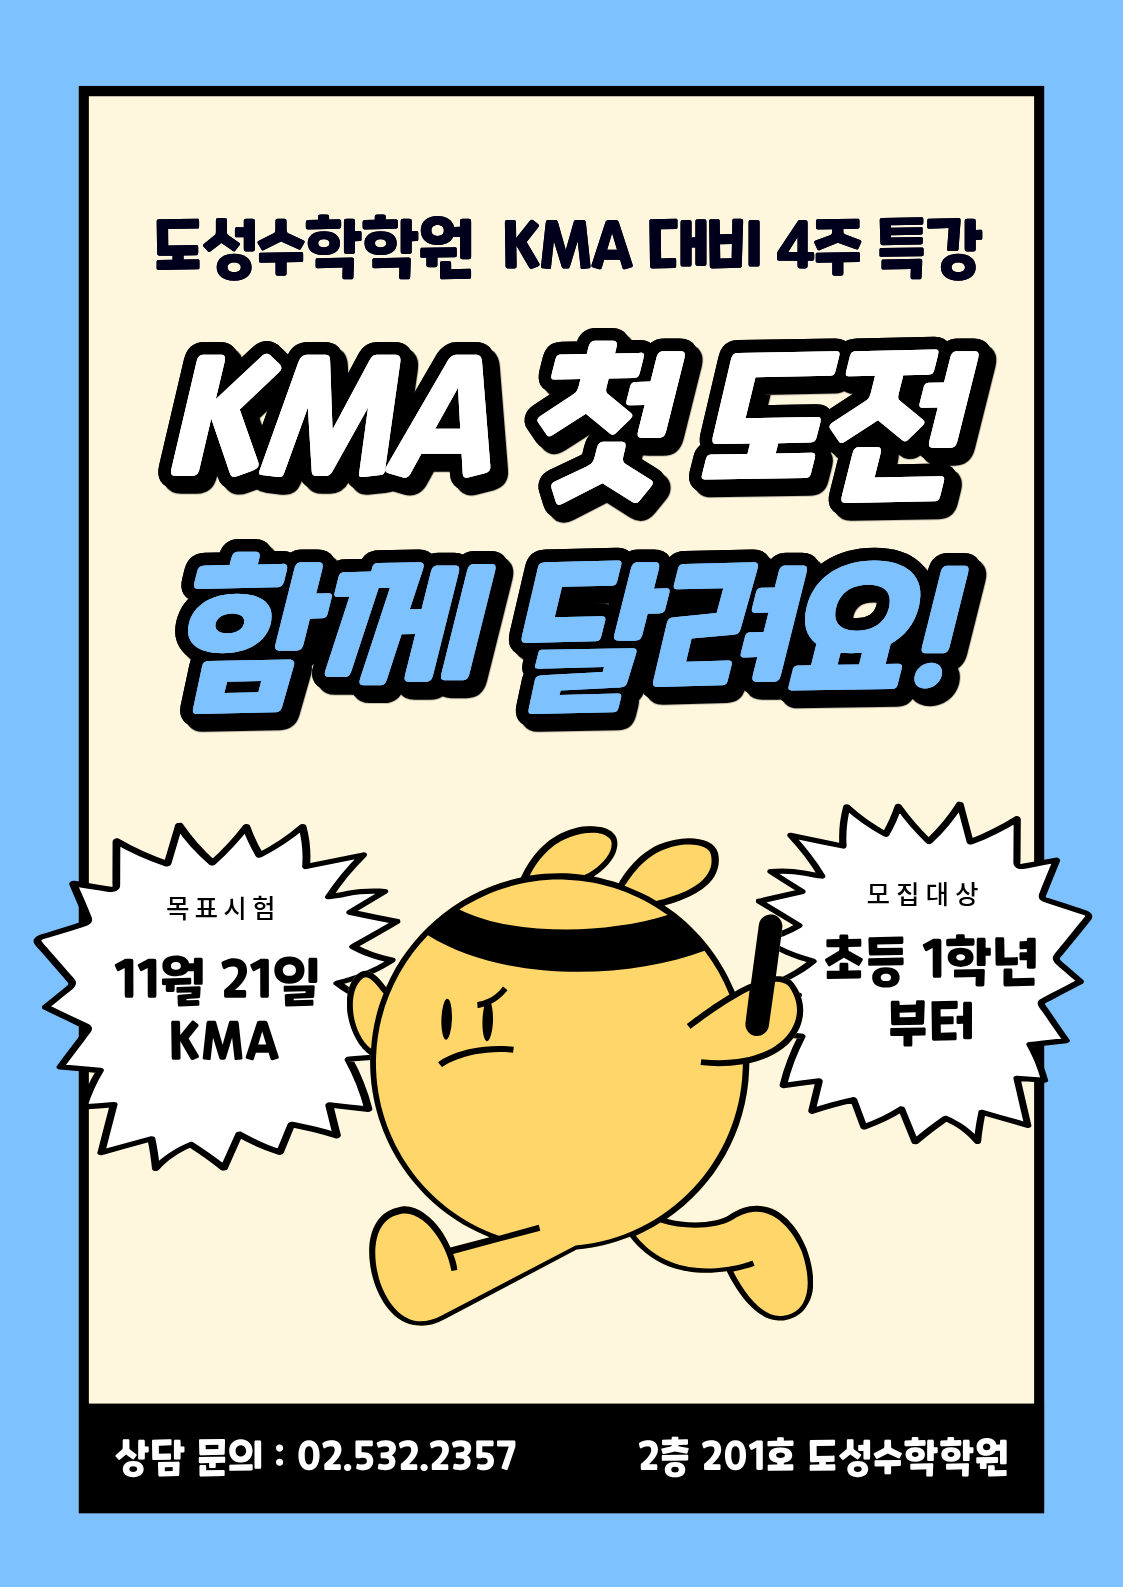
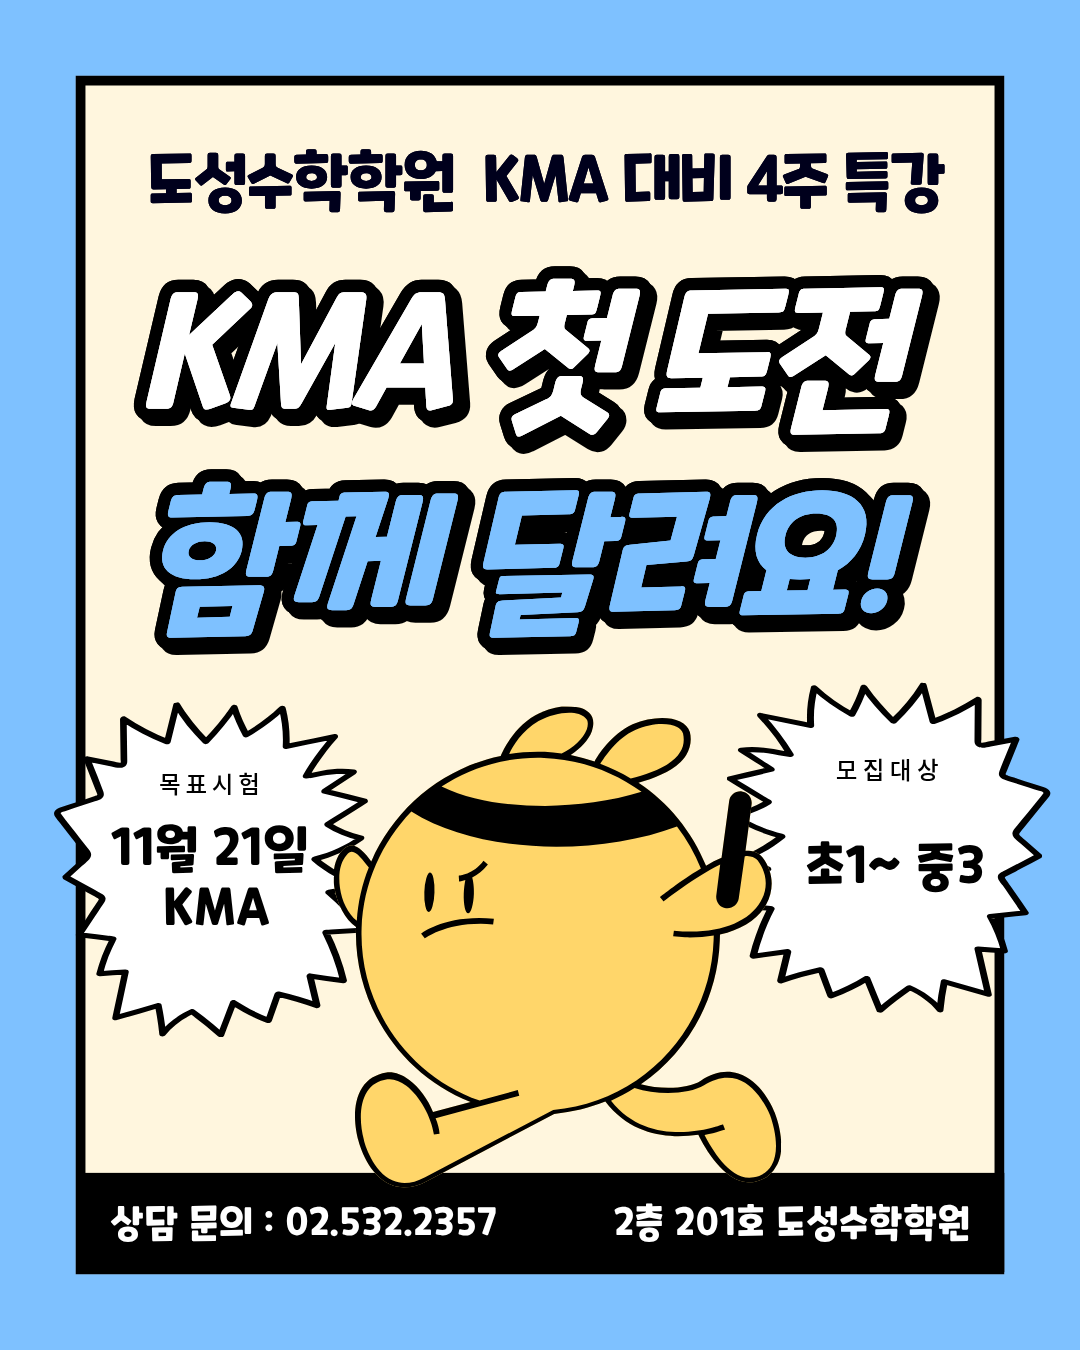
feat(popup): KMA 특강 포스터 교체 + 팝업 순서 표시(1/2, 2/2)
- 앞 팝업 포스터를 새 KMA 첫 도전 이미지(1080x1350, 4:5)로 교체, 카드 비율 0.8 적용
- 팝업 왼쪽 위에 순서 배지 추가(앞부터 1/N, 숨김 팝업은 개수에서 제외)
- 포스터 크기가 달라 뒤 팝업이 비치지 않도록 맨 앞 팝업만 표시
- KMA 포스터 대체 텍스트 갱신(목표시험 11월 21일, 모집대상 초1~중3)

Changed region(s): [[0.0306, 0.0933, 0.9778, 0.9644], [0.0917, 0.0311, 0.9167, 0.0622]]

diff --git a/styles.css b/styles.css
@@ -548,7 +548,16 @@ em { font-style: normal; }
 }
 /* 두 팝업을 정확히 같은 자리에 포갠다 (앞이 뒤를 덮음) */
 .promo-card-back  { z-index: 1; transform: translate(-50%, -50%); }
-.promo-card-front { z-index: 2; transform: translate(-50%, -50%); }
+.promo-card-front { z-index: 2; transform: translate(-50%, -50%); --promo-ratio: 0.8; } /* KMA 포스터 1080 / 1350 */
+/* 팝업 순서 표시 (1/2, 2/2) */
+.promo-count {
+  position: absolute; top: 12px; left: 12px; z-index: 5;
+  height: 30px; padding: 0 12px; border-radius: 999px;
+  display: inline-flex; align-items: center;
+  background: rgba(20, 6, 8, 0.55); border: 1px solid rgba(255, 255, 255, 0.3);
+  color: #fff; font-size: 13px; font-weight: 700; letter-spacing: 0.04em; font-variant-numeric: tabular-nums;
+}
+.promo-count:empty { display: none; }
 .promo-close {
   position: absolute; top: 12px; right: 12px; z-index: 5;
   width: 38px; height: 38px; border-radius: 50%;
@@ -560,7 +569,7 @@ em { font-style: normal; }
 .promo-close svg { width: 18px; height: 18px; }
 .promo-poster {
   display: block; width: 100%; flex: none; padding: 0; border: 0;
-  aspect-ratio: 1123 / 1587;        /* 포스터 원본 비율 고정 → 카드 너비만으로 높이가 정해짐 */
+  aspect-ratio: var(--promo-ratio);  /* 포스터 원본 비율 고정 → 카드 너비만으로 높이가 정해짐 */
   background: none; cursor: pointer; overflow: hidden;
 }
 .promo-poster img { display: block; width: 100%; height: 100%; object-fit: contain; }
@@ -579,6 +588,7 @@ em { font-style: normal; }
   .promo-card { --promo-max-w: 620px; --promo-bar-h: 56px; --promo-gap: 48px; }
   .promo-bar button { font-size: 15px; }
   .promo-close { top: 14px; right: 14px; width: 42px; height: 42px; }
+  .promo-count { top: 14px; left: 14px; height: 34px; font-size: 14px; padding: 0 14px; }
   .promo-close svg { width: 20px; height: 20px; }
 }
 /* 대형 데스크톱 */

diff --git a/index.html b/index.html
@@ -503,6 +503,7 @@
 
   <!-- 뒤쪽 팝업 : 수리논술 특강 -->
   <div class="promo-card promo-card-back" data-popup-id="math" role="dialog" aria-modal="true" aria-label="대입 수리논술 특강 안내">
+    <span class="promo-count" data-popup-count aria-hidden="true"></span>
     <button type="button" class="promo-close" aria-label="닫기" data-popup-close>
       <svg viewBox="0 0 24 24" fill="none" stroke="currentColor" stroke-width="2" stroke-linecap="round" stroke-linejoin="round"><line x1="18" y1="6" x2="6" y2="18"/><line x1="6" y1="6" x2="18" y2="18"/></svg>
     </button>
@@ -517,11 +518,12 @@
 
   <!-- 앞쪽 팝업 : KMA 특강 -->
   <div class="promo-card promo-card-front" data-popup-id="kma" role="dialog" aria-modal="true" aria-label="KMA 대비 4주 특강 안내">
+    <span class="promo-count" data-popup-count aria-hidden="true"></span>
     <button type="button" class="promo-close" aria-label="닫기" data-popup-close>
       <svg viewBox="0 0 24 24" fill="none" stroke="currentColor" stroke-width="2" stroke-linecap="round" stroke-linejoin="round"><line x1="18" y1="6" x2="6" y2="18"/><line x1="6" y1="6" x2="18" y2="18"/></svg>
     </button>
     <button type="button" class="promo-poster" data-popup-reserve aria-label="KMA 대비 4주 특강 — 상담 예약하기">
-      <img src="images/kma_poster.png" alt="도성수학학원 KMA 대비 4주 특강 안내 — 11월 21일 KMA, 초등 1학년부터" />
+      <img src="images/kma_poster.png" alt="도성수학학원 KMA 대비 4주 특강 안내 — KMA 첫 도전 함께 달려요! 목표시험 11월 21일 KMA, 모집대상 초1~중3" />
     </button>
     <div class="promo-bar">
       <button type="button" class="promo-hide" data-popup-hide>오늘 하루 보지 않기</button>

diff --git a/script.js b/script.js
@@ -512,6 +512,19 @@ if (window.Swiper && document.querySelector('.class-swiper')) {
   };
 
   const visibleCards = () => cards.filter((c) => c.style.display !== 'none');
+  // 포스터 크기가 서로 달라도 뒤 팝업이 비치지 않도록 맨 앞 팝업만 보이게 한다
+  const syncStack = () => {
+    const vis = visibleCards();
+    vis.forEach((c, i) => { c.style.visibility = i === vis.length - 1 ? '' : 'hidden'; });
+  };
+  // 팝업 순서 표시: 앞 팝업부터 1/N, 2/N … (숨김 처리된 팝업은 개수에서 제외)
+  const labelCards = () => {
+    const vis = visibleCards().slice().reverse(); // DOM 순서는 뒤→앞이므로 뒤집어 앞 팝업이 1번
+    vis.forEach((card, i) => {
+      const el = card.querySelector('[data-popup-count]');
+      if (el) el.textContent = `${i + 1}/${vis.length}`;
+    });
+  };
 
   const closeOverlayIfEmpty = () => {
     if (visibleCards().length) return;
@@ -521,11 +534,14 @@ if (window.Swiper && document.querySelector('.class-swiper')) {
   };
   const closeCard = (card) => {
     card.style.display = 'none';
+    syncStack();
     closeOverlayIfEmpty();
   };
 
   // 숨김 기간인 팝업은 처음부터 감춘다
   cards.forEach((card) => { if (isHidden(card.dataset.popupId)) card.style.display = 'none'; });
+  labelCards();
+  syncStack();
 
   cards.forEach((card) => {
     card.querySelectorAll('[data-popup-close]').forEach((el) =>
